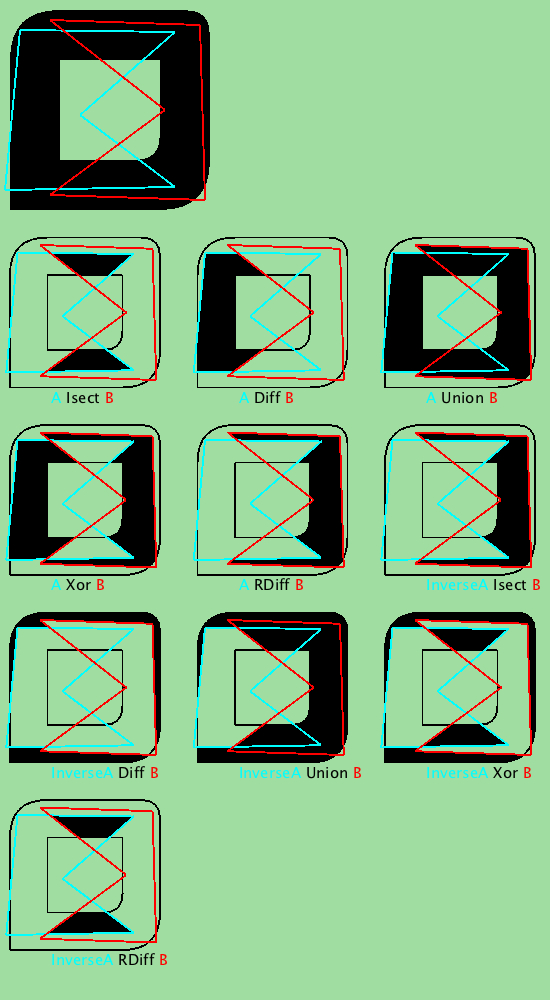
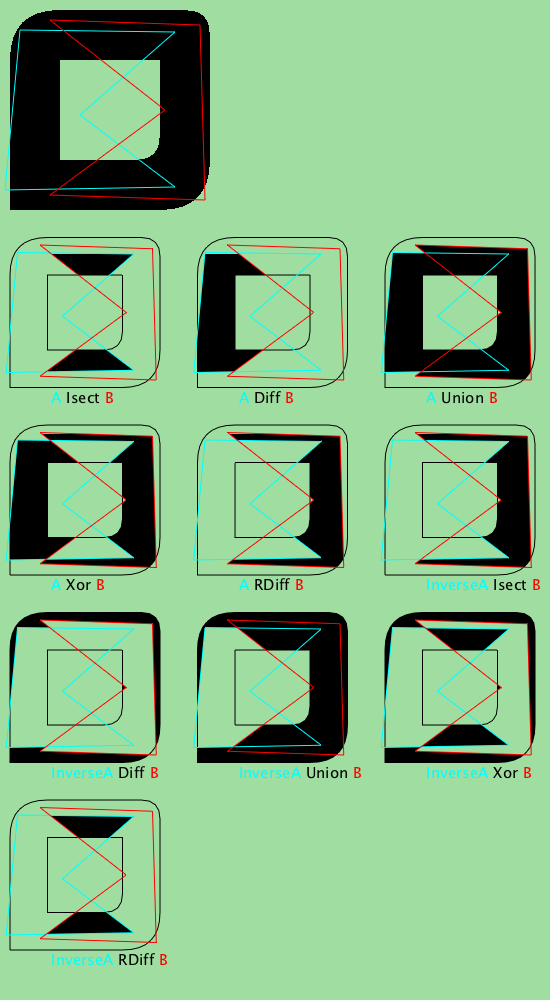
fix use of smooth lines Review URL:http://codereview.appspot.com/4370050/

diff --git a/gpu/src/GrGpuGL.cpp b/gpu/src/GrGpuGL.cpp
@@ -1526,6 +1526,18 @@ void GrGpuGL::flushStencil() {
     }
 }
 
+bool GrGpuGL::useSmoothLines() {
+    // there is a conflict between using smooth lines and our use of
+    // premultiplied alpha. Smooth lines tweak the incoming alpha value
+    // but not in a premul-alpha way. So we only use them when our alpha
+    // is 0xff.
+
+    // TODO: write a smarter line frag shader.
+
+    return (kAntialias_StateBit & fCurrDrawState.fFlagBits) &&
+           canDisableBlend();
+}
+
 void GrGpuGL::flushAAState(GrPrimitiveType type) {
     if (GR_GL_SUPPORT_DESKTOP) {
         // ES doesn't support toggling GL_MULTISAMPLE and doesn't have
@@ -1533,13 +1545,12 @@ void GrGpuGL::flushAAState(GrPrimitiveType type) {
 
         // we prefer smooth lines over multisampled lines
         // msaa should be disabled if drawing smooth lines.
-        if (kLines_PrimitiveType == type) {
-            if (!fHWAAState.fSmoothLineEnabled && 
-                (kAntialias_StateBit & fCurrDrawState.fFlagBits)) {
+        if (GrIsPrimTypeLines(type)) {
+            bool smooth = useSmoothLines();
+            if (!fHWAAState.fSmoothLineEnabled && smooth) {
                 GR_GL(Enable(GR_GL_LINE_SMOOTH));
                 fHWAAState.fSmoothLineEnabled = true;
-            } else if (fHWAAState.fSmoothLineEnabled && 
-                       !(kAntialias_StateBit & fCurrDrawState.fFlagBits)) {
+            } else if (fHWAAState.fSmoothLineEnabled && !smooth) {
                 GR_GL(Disable(GR_GL_LINE_SMOOTH));
                 fHWAAState.fSmoothLineEnabled = false;
             }
@@ -1557,6 +1568,54 @@ void GrGpuGL::flushAAState(GrPrimitiveType type) {
             } else {
                 GR_GL(Enable(GR_GL_MULTISAMPLE));
                 fHWAAState.fMSAAEnabled = true;
+            }
+        }
+    }
+}
+
+void GrGpuGL::flushBlend(GrPrimitiveType type) {
+    if (GrIsPrimTypeLines(type) && useSmoothLines()) {
+        if (fHWBlendDisabled) {
+            GR_GL(Enable(GR_GL_BLEND));
+            fHWBlendDisabled = false;
+        }
+        if (kSA_BlendCoeff != fHWDrawState.fSrcBlend ||
+            kISA_BlendCoeff != fHWDrawState.fDstBlend) {
+            GR_GL(BlendFunc(gXfermodeCoeff2Blend[kSA_BlendCoeff],
+                            gXfermodeCoeff2Blend[kISA_BlendCoeff]));
+            fHWDrawState.fSrcBlend = kSA_BlendCoeff;
+            fHWDrawState.fDstBlend = kISA_BlendCoeff;
+        }
+    } else {
+        bool blendOff = canDisableBlend();
+        if (fHWBlendDisabled != blendOff) {
+            if (blendOff) {
+                GR_GL(Disable(GR_GL_BLEND));
+            } else {
+                GR_GL(Enable(GR_GL_BLEND));
+            }
+            fHWBlendDisabled = blendOff;
+        }
+        if (!blendOff) {
+            if (fHWDrawState.fSrcBlend != fCurrDrawState.fSrcBlend ||
+                  fHWDrawState.fDstBlend != fCurrDrawState.fDstBlend) {
+                GR_GL(BlendFunc(gXfermodeCoeff2Blend[fCurrDrawState.fSrcBlend],
+                                gXfermodeCoeff2Blend[fCurrDrawState.fDstBlend]));
+                fHWDrawState.fSrcBlend = fCurrDrawState.fSrcBlend;
+                fHWDrawState.fDstBlend = fCurrDrawState.fDstBlend;
+            }
+            if ((BlendCoefReferencesConstant(fCurrDrawState.fSrcBlend) ||
+                 BlendCoefReferencesConstant(fCurrDrawState.fDstBlend)) &&
+                fHWDrawState.fBlendConstant != fCurrDrawState.fBlendConstant) {
+
+                float c[] = {
+                    GrColorUnpackR(fCurrDrawState.fBlendConstant) / 255.f,
+                    GrColorUnpackG(fCurrDrawState.fBlendConstant) / 255.f,
+                    GrColorUnpackB(fCurrDrawState.fBlendConstant) / 255.f,
+                    GrColorUnpackA(fCurrDrawState.fBlendConstant) / 255.f
+                };
+                GR_GL(BlendColor(c[0], c[1], c[2], c[3]));
+                fHWDrawState.fBlendConstant = fCurrDrawState.fBlendConstant;
             }
         }
     }
@@ -1638,9 +1697,9 @@ bool GrGpuGL::flushGLStateCommon(GrPrimitiveType type) {
     }
 
     flushRenderTarget();
-
     flushAAState(type);
-
+    flushBlend(type);
+    
     if ((fCurrDrawState.fFlagBits & kDither_StateBit) !=
         (fHWDrawState.fFlagBits & kDither_StateBit)) {
         if (fCurrDrawState.fFlagBits & kDither_StateBit) {
@@ -1659,39 +1718,6 @@ bool GrGpuGL::flushGLStateCommon(GrPrimitiveType type) {
             mask = GR_GL_TRUE;
         }
         GR_GL(ColorMask(mask, mask, mask, mask));
-    }
-
-    bool blendOff = canDisableBlend();
-    if (fHWBlendDisabled != blendOff) {
-        if (blendOff) {
-            GR_GL(Disable(GR_GL_BLEND));
-        } else {
-            GR_GL(Enable(GR_GL_BLEND));
-        }
-        fHWBlendDisabled = blendOff;
-    }
-
-    if (!blendOff) {
-        if (fHWDrawState.fSrcBlend != fCurrDrawState.fSrcBlend ||
-              fHWDrawState.fDstBlend != fCurrDrawState.fDstBlend) {
-            GR_GL(BlendFunc(gXfermodeCoeff2Blend[fCurrDrawState.fSrcBlend],
-                            gXfermodeCoeff2Blend[fCurrDrawState.fDstBlend]));
-            fHWDrawState.fSrcBlend = fCurrDrawState.fSrcBlend;
-            fHWDrawState.fDstBlend = fCurrDrawState.fDstBlend;
-        }
-        if ((BlendCoefReferencesConstant(fCurrDrawState.fSrcBlend) ||
-             BlendCoefReferencesConstant(fCurrDrawState.fDstBlend)) &&
-            fHWDrawState.fBlendConstant != fCurrDrawState.fBlendConstant) {
-
-            float c[] = {
-                GrColorUnpackR(fCurrDrawState.fBlendConstant) / 255.f,
-                GrColorUnpackG(fCurrDrawState.fBlendConstant) / 255.f,
-                GrColorUnpackB(fCurrDrawState.fBlendConstant) / 255.f,
-                GrColorUnpackA(fCurrDrawState.fBlendConstant) / 255.f
-            };
-            GR_GL(BlendColor(c[0], c[1], c[2], c[3]));
-            fHWDrawState.fBlendConstant = fCurrDrawState.fBlendConstant;
-        }
     }
 
     if (fHWDrawState.fDrawFace != fCurrDrawState.fDrawFace) {

diff --git a/gpu/src/GrGpuGL.h b/gpu/src/GrGpuGL.h
@@ -151,15 +151,20 @@ private:
 
     void setSpareTextureUnit();
 
+    bool useSmoothLines();
+
     void flushRenderTarget();
     void flushStencil();
     void flushAAState(GrPrimitiveType type);
+    void flushBlend(GrPrimitiveType type);
+
     void resolveTextureRenderTarget(GrGLTexture* texture);
 
     bool canBeTexture(GrPixelConfig config,
                       GrGLenum* internalFormat,
                       GrGLenum* format,
                       GrGLenum* type);
+
     bool fboInternalFormat(GrPixelConfig config, GrGLenum* format);
 
     friend class GrGLVertexBuffer;

diff --git a/gpu/include/GrTypes.h b/gpu/include/GrTypes.h
@@ -172,6 +172,16 @@ enum GrPrimitiveType {
     kLineStrip_PrimitiveType
 };
 
+static inline bool GrIsPrimTypeLines(GrPrimitiveType type) {
+    return kLines_PrimitiveType == type || kLineStrip_PrimitiveType == type;
+}
+
+static inline bool GrIsPrimTypeTris(GrPrimitiveType type) {
+    return kTriangles_PrimitiveType == type     ||
+           kTriangleStrip_PrimitiveType == type ||
+           kTriangleFan_PrimitiveType == type;
+}
+
 /**
  * Coeffecients for alpha-blending.
  */
